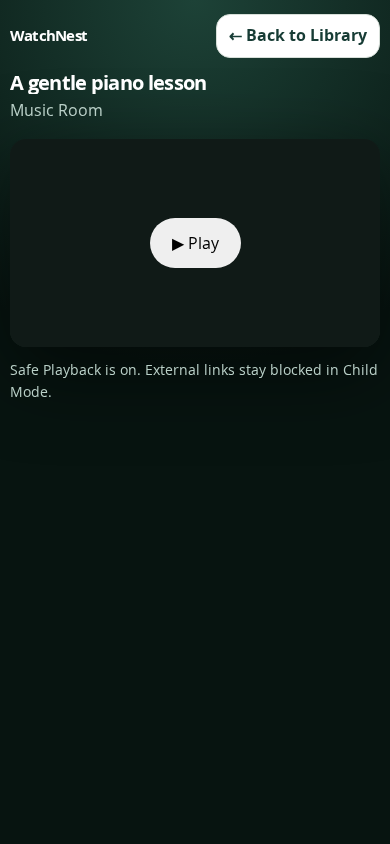
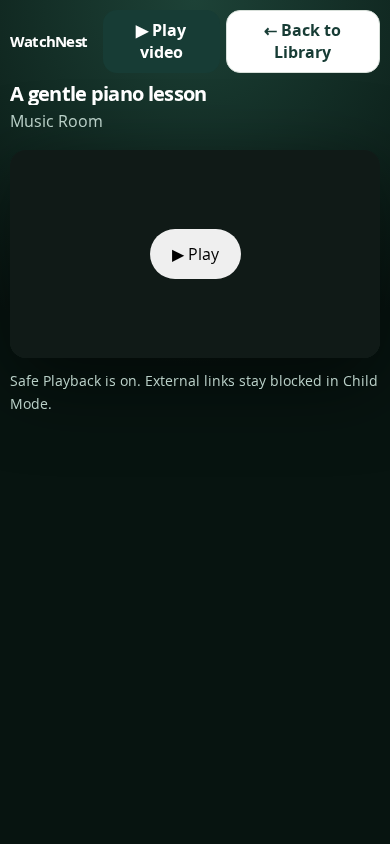
Make iPad playback explicitly user-started

diff --git a/src/components/child/ChildPlayer.tsx b/src/components/child/ChildPlayer.tsx
@@ -118,7 +118,7 @@ export default function ChildPlayer({ videoId }: { videoId: string }) {
     | "network"
     | "unknown"
   >("unknown");
-  const [blocked, setBlocked] = useState(false);
+  const [started, setStarted] = useState(false);
   const [ended, setEnded] = useState(false);
   const [ready, setReady] = useState(false);
   const [staticFallback, setStaticFallback] = useState(false);
@@ -165,7 +165,7 @@ export default function ChildPlayer({ videoId }: { videoId: string }) {
     setErrorKind("unknown");
     setEnded(false);
     setReady(false);
-    setBlocked(false);
+    setStarted(false);
     setStaticFallback(false);
     setPlayerNotice("");
     setHelpSent(false);
@@ -288,7 +288,7 @@ export default function ChildPlayer({ videoId }: { videoId: string }) {
         data.video.youtube_video_id,
         window.location.origin,
         {
-          autoplay: historyAllowed,
+          autoplay: false,
           enableJsApi: true,
           startSeconds,
         },
@@ -328,7 +328,7 @@ export default function ChildPlayer({ videoId }: { videoId: string }) {
                 videoId: data.video.youtube_video_id,
                 host: "https://www.youtube-nocookie.com",
                 playerVars: youtubePlayerVars(window.location.origin, {
-                  autoplay: historyAllowed,
+                  autoplay: false,
                   startSeconds:
                     historyAllowed && !data.video.progress?.completed_at
                       ? data.video.progress?.current_time_seconds || 0
@@ -354,7 +354,6 @@ export default function ChildPlayer({ videoId }: { videoId: string }) {
                 }
                 event.target.setVolume(volumeRef.current);
                 setReady(true);
-                if (historyAllowed) event.target.playVideo();
               }
             },
             onStateChange: (e) => {
@@ -363,7 +362,7 @@ export default function ChildPlayer({ videoId }: { videoId: string }) {
                 verifyIdentity(e.target);
               }
               if (e.data === 1) {
-                setBlocked(false);
+                setStarted(true);
                 setEnded(false);
               }
               if (e.data === 2) void save();
@@ -401,9 +400,7 @@ export default function ChildPlayer({ videoId }: { videoId: string }) {
                 active.current = false;
               }
             },
-            onAutoplayBlocked: () => {
-              if (!disposed) setBlocked(true);
-            },
+            onAutoplayBlocked: () => {},
           },
         });
       })
@@ -496,9 +493,19 @@ export default function ChildPlayer({ videoId }: { videoId: string }) {
         <Link className="brand" href="/watch/home">
           WatchNest
         </Link>
-        <Link className="button button-secondary" href="/watch/home">
-          ← Back to Library
-        </Link>
+        <div className="child-player-topbar-actions">
+          {data && !ended && ready && !started && (
+            <button
+              className="button"
+              onClick={() => player.current?.playVideo()}
+            >
+              ▶ Play video
+            </button>
+          )}
+          <Link className="button button-secondary" href="/watch/home">
+            ← Back to Library
+          </Link>
+        </div>
       </header>
       {error ? (
         <section className="panel" style={{ marginTop: 32 }}>
@@ -607,17 +614,6 @@ export default function ChildPlayer({ videoId }: { videoId: string }) {
               Loading the video player…
             </p>
           )}
-          {!ended && blocked && (
-            <div className="notice">
-              <p>Tap to start your video.</p>
-              <button
-                className="button"
-                onClick={() => player.current?.playVideo()}
-              >
-                Play video
-              </button>
-            </div>
-          )}
           {playerNotice && <p className="notice">{playerNotice}</p>}
           {data.video.made_for_kids === false && !staticFallback && (
             <label className="player-volume">
@@ -645,34 +641,36 @@ export default function ChildPlayer({ videoId }: { videoId: string }) {
               Safe Playback is on. External links stay blocked in Child Mode.
             </p>
           )}
-          <section
-            className={`panel child-player-next ${ended ? "is-visible" : ""}`}
-            style={{ marginTop: 24 }}
-          >
-            {data.next ? (
-              <>
-                <p className="eyebrow">
-                  {ended ? "Ready for another?" : "Next in your library"}
-                </p>
-                <h2>{data.next.title}</h2>
-                <p className="muted">{data.next.channel_title}</p>
-                <Link
-                  className="button"
-                  href={`/watch/player/${encodeURIComponent(data.next.id)}`}
-                  onClick={requestImmersivePlayback}
-                >
-                  Watch next →
-                </Link>
-              </>
-            ) : (
-              <>
-                <h2>Want to pick something else?</h2>
-                <Link className="button button-secondary" href="/watch/home">
-                  Explore Library
-                </Link>
-              </>
-            )}
-          </section>
+          {(started || ended || staticFallback) && (
+            <section
+              className={`panel child-player-next ${ended ? "is-visible" : ""}`}
+              style={{ marginTop: 24 }}
+            >
+              {data.next ? (
+                <>
+                  <p className="eyebrow">
+                    {ended ? "Ready for another?" : "Next in your library"}
+                  </p>
+                  <h2>{data.next.title}</h2>
+                  <p className="muted">{data.next.channel_title}</p>
+                  <Link
+                    className="button"
+                    href={`/watch/player/${encodeURIComponent(data.next.id)}`}
+                    onClick={requestImmersivePlayback}
+                  >
+                    Watch next →
+                  </Link>
+                </>
+              ) : (
+                <>
+                  <h2>Want to pick something else?</h2>
+                  <Link className="button button-secondary" href="/watch/home">
+                    Explore Library
+                  </Link>
+                </>
+              )}
+            </section>
+          )}
         </>
       )}
     </main>

diff --git a/e2e/product.spec.ts b/e2e/product.spec.ts
@@ -376,6 +376,12 @@ test("synthetic UI: Made-for-Kids playback is manual, contained, and identity-mo
   await expect(page.getByText(/Safe Playback is on/i)).toBeVisible();
   await expect(page.getByText(/resume is off/i)).toHaveCount(0);
   expect(await page.evaluate(() => (window as any).__watchnestPlayCalls || 0)).toBe(0);
+  await expect(page.getByRole("button", { name: "Play video" })).toBeVisible();
+  await page.getByRole("button", { name: "Play video" }).click();
+  expect(await page.evaluate(() => (window as any).__watchnestPlayCalls || 0)).toBe(1);
+  await expect(
+    page.getByRole("heading", { name: "This video isn’t approved" }),
+  ).toHaveCount(0);
   await page.evaluate(() => {
     const player = (window as any).__watchnestMockPlayer;
     player.currentId = "unapproved-related-video";
@@ -510,6 +516,7 @@ test("synthetic UI: transiently missing iPad player identity does not reject the
   const video = dashboard.videos[0];
   await page.goto(`/watch/player/${video.id}`);
   await expect(page.locator(`iframe[title="${video.title}"]`)).toBeVisible();
+  await page.getByRole("button", { name: "Play video" }).click();
   await expect(
     page.getByRole("heading", { name: "This video isn’t approved" }),
   ).toHaveCount(0);
@@ -546,6 +553,7 @@ test("synthetic UI: permanently unreadable player identity fails closed", async 
   );
   const video = dashboard.videos[0];
   await page.goto(`/watch/player/${video.id}`);
+  await page.getByRole("button", { name: "Play video" }).click();
   await expect(
     page.getByRole("heading", { name: "This video isn’t approved" }),
   ).toBeVisible({ timeout: 5000 });

diff --git a/src/app/watch/watch.css b/src/app/watch/watch.css
@@ -414,6 +414,12 @@
 .child-player-topbar .brand {
   color: #fff;
 }
+.child-player-topbar-actions {
+  display: flex;
+  align-items: center;
+  justify-content: flex-end;
+  gap: 10px;
+}
 .child-player-heading {
   max-width: 1500px;
   margin: 18px auto 14px;
@@ -455,6 +461,9 @@
   .child-player-topbar .button {
     min-height: 44px;
     padding: 9px 12px;
+  }
+  .child-player-topbar-actions {
+    gap: 6px;
   }
   .child-player-heading {
     margin-top: 10px;

diff --git a/docs/EmergencyIPadPlaybackRepair-20261022.md b/docs/EmergencyIPadPlaybackRepair-20261022.md
@@ -85,3 +85,27 @@ identity. Both were corrected before publication. The corrected exact candidate
 received independent PASS for deployment; physical-iPad playback remains the
 only open evidence gate.
 
+## Founder retest and second bounded correction
+
+The Founder tested production `dpl_BQeAryXhBukqfCyw3jjSf4u5NYCY` on the actual
+family iPad. The player route and video surface opened, but playback did not
+start. This is a FAIL and supersedes the first repair's unverified playback
+expectation.
+
+The remaining affected path was the explicitly non-MFK path: it still supplied
+`autoplay=1` and called `playVideo()` asynchronously from `onReady`. On iPadOS,
+that callback is no longer the original user gesture, so an apparently opened
+player can remain stopped without producing an application error. The final
+bounded correction removes autoplay and asynchronous programmatic start for
+every audience class. Once the provider reports ready, WatchNest exposes one
+compact top-bar **Play video** control; that direct child tap calls
+`playVideo()`. Native player controls and manual fullscreen remain available.
+
+Approved-only enforcement is unchanged: every Safe Playback item remains
+identity-monitored, explicit mismatches stop immediately, and persistently
+unreadable identity fails closed after the bounded grace. The Play-button
+regression test proves an approved identity starts, then an unapproved related
+identity is stopped. Exact gates after the change: typecheck, lint, production
+build, 188/188 tests, and 20/20 isolated browser flows PASS. A new deployment
+and one final physical-iPad picture-and-sound observation remain required.
+

diff --git a/docs/LearningPropagation.md b/docs/LearningPropagation.md
@@ -155,3 +155,23 @@ the direct and monitored paths separately, including empty-to-approved identity
 transitions. Synthetic tablet coverage can prevent layout and state regressions;
 it cannot certify physical iPad playback. This is a WatchNest project/process
 calibration, not a general relaxation of approved-only enforcement.
+
+## 2026-10-22 — PROJECT: do not equate an opened player with an iPad play gesture
+
+Problem: the first repair removed autoplay for MFK/unknown content but retained
+`autoplay=1` and an asynchronous `onReady → playVideo()` call for explicitly
+non-MFK videos. The real family iPad opened the player surface yet did not start
+picture/sound. Browser success could not prove Apple preserved the original
+card-tap gesture through route transition and provider readiness.
+
+Correction: remove autoplay and asynchronous starts for every audience class;
+after player readiness, expose one obvious WatchNest Play action that invokes
+the player synchronously from the child's tap. Keep native controls, manual
+fullscreen and approved-only identity monitoring independent of the start
+mechanism.
+
+Prevention: player-route rendering, readiness and actual audiovisual start are
+separate gates. For Apple-device playback, qualification must record the direct
+gesture that starts media; an opened iframe or provider-ready event is not a
+playback PASS. This remains a WatchNest-specific calibration until another
+product reproduces the same integration boundary.

diff --git a/docs/RunState.md b/docs/RunState.md
@@ -30,6 +30,15 @@ warning/error/fatal logs followed the probe. The initial independent safety
 FAIL was repaired; corrected-candidate independent review is PASS. One real
 family-iPad picture-and-sound observation remains open.
 
+Founder physical-iPad retest against the published candidate: FAIL. The player
+opened but playback did not start. The successor removes `autoplay=1` and the
+asynchronous `onReady → playVideo()` path for all videos, then supplies one
+visible top-bar Play action whose direct tap invokes the ready player. This
+preserves native controls/manual fullscreen and leaves Safe Playback identity,
+related-video, sibling and server authorization enforcement unchanged. Updated
+gates: typecheck, lint, build, 188/188 tests and 20/20 browser flows PASS. Final
+deployment identity and one physical-family-iPad observation remain PENDING.
+
 ## 2026-10-21 — consolidated cross-device production repair
 
 Exact successor: GitHub `9c873e5fd339fcc512aca33697c6d13b6f8b5e2e`,

diff --git a/docs/SkillInvocationLedger.md b/docs/SkillInvocationLedger.md
@@ -20,6 +20,14 @@ configuration and exact-deployment runtime-log checks PASS. Physical family-iPad
 picture-and-sound acceptance remains PENDING and is not inferred from the
 browser suite.
 
+Founder physical-iPad retest of that receipt: FAIL — player surface opened but
+playback did not start. The second bounded correction removes all autoplay and
+asynchronous ready-callback starts, adds one explicit ready-player Play action,
+and retains monitored approved identity plus native fullscreen. Exact local
+gates remain 188 tests and 20 browser flows PASS. Independent review: PASS for
+deployment; the direct user gesture, approved-ID checks, containment and native
+fullscreen affordance are preserved. Final physical-iPad evidence remains open.
+
 ## 2026-10-21 — consolidated cross-device production repair receipts
 
 | Authority / capability | Application | Result |
